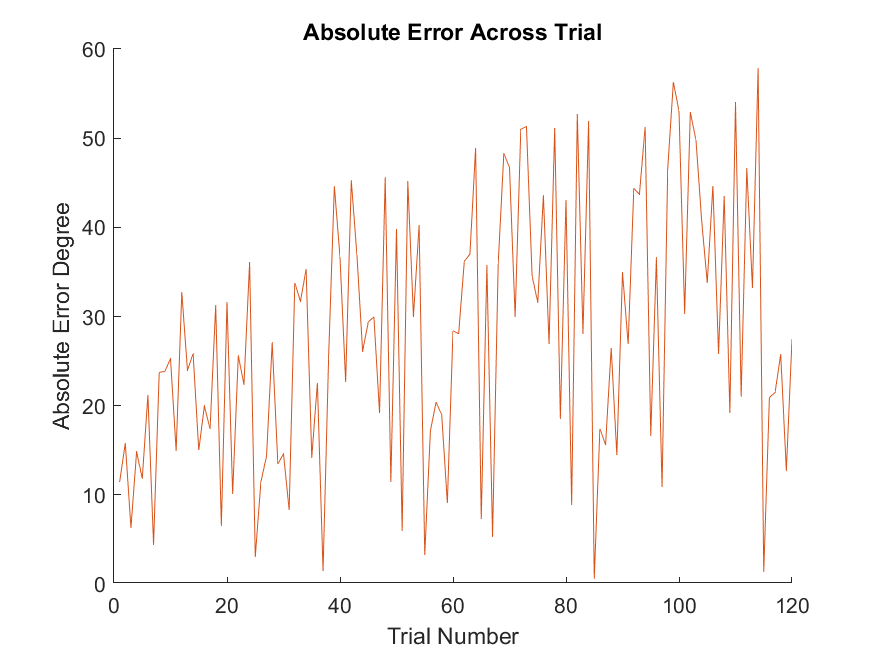
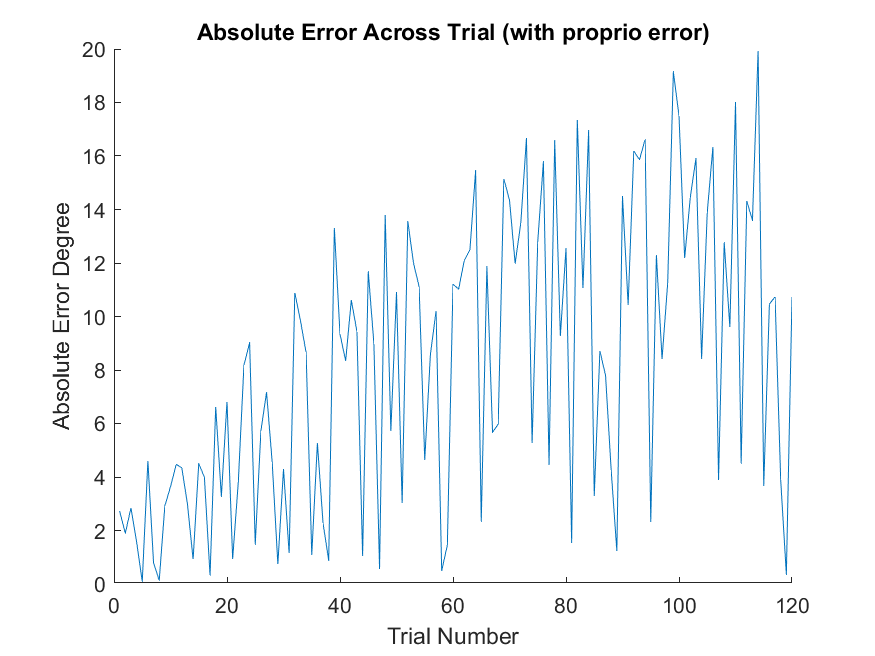
model results with visual error

diff --git a/Model/SensoryRecabModel_MirrorReversal_20220116.m b/Model/SensoryRecabModel_MirrorReversal_20220116.m
@@ -1,0 +1,260 @@
+sigma =6;
+eta =0.0001;
+sat_limit =18;
+seed_rng =48;
+
+sigma_noise = 2;
+txt = sprintf('Kernel Width=%f\nAsymptote=%f\nLearning rate=%f',sigma,sat_limit,eta);
+rng (seed_rng); % fix randomization so simulations are reproducible
+
+% initiate basis functions
+delta_c = 0.05;
+c = -60:delta_c:60;
+priop = -60:.5:60; 
+w = zeros(size(c));
+% proprio is the kernel of proprioception
+
+% Learning (note that Ntrials is more than needed to simulate Experiment 2,
+% which is 24 cycles (168 trials, i.e. 7 targets x 24 trials; and steady-state
+% analysis uses cycles 13:24)
+Ntrials = 120;
+blocksize = 30;
+blocknum = Ntrials/blocksize;
+
+[u_out,y_out,te] = deal(NaN(1,Ntrials));
+
+root_dir = pwd;
+% Load targets used in experiments
+cd('RawData\');
+vision = cell2mat(struct2cell(load("targetdata210trials.mat")));
+cd(root_dir);
+vision = vision(1:120);
+possibleivusalgoals = [-12;-9;-6;-3;0;3;6;9;12;15];
+w_sat_limit = sat_limit*delta_c/sigma/sqrt(2*pi);
+
+%basis functions
+B = NaN(length(c),length(priop));
+for i=1:length(c)
+    B(i,:) =  exp(-(priop-c(i)).^2/(2*sigma^2));
+end
+
+priop_map = NaN(Ntrials,length(priop));
+absoluteerror = [0 0];
+signederror = [0 0];
+visualerror = [0 0];
+taskerror = [0 0];
+for i=1:Ntrials
+    priop_map(i,:) = priop + sigmoid_saturation(w,w_sat_limit)*B;
+    % current map
+    
+    [~,i_t] = min((priop-vision(i)).^2);
+    %supposedly output
+    
+    priopout(i) = priop_map(i,i_t) + sigma_noise*randn;
+    %add randomness
+    
+    % apply perturbation
+    onlinecursor(i) = - priopout(i); % mirroring
+    [~,i_thokin] = min((priop-onlinecursor(i)).^2);
+    prioprime(i) = priop_map(i,i_thokin) + sigma_noise*randn;
+    [~,i_selected] = min(abs(priop-vision(i)));
+    
+    %priop and visual error
+    prioperror(i) = -(prioprime(i) - priopout(i));
+    visualerror(i) = -(onlinecursor(i)-vision(i));
+    taskerror(i) = -(priopout(i)-vision(i));
+    % Absolute and signed Error
+    absoluteerror(i) = abs(priopout(i) - vision(i));
+    signederror(i) = priopout(i) - vision(i);
+    
+    % learning update
+    w = w + eta*prioperror(i)*B(:,i_selected)';
+    %w = w + eta*visualerror(i)*B(:,i_selected)';
+    %w = w + eta*taskerror(i)*B(:,i_selected)';
+end
+
+lins = lines;
+figure; 
+hold on;
+mycolor = colormap("jet");
+xlim_right = 60;
+ylim_up = 60;
+plot(linspace(-80,80,161),linspace(-80,80,161),'--','color','black');
+for i = 1:Ntrials
+    plot(linspace(-60,60,241),priop_map(i,:),'color',mycolor(round(i*(length(mycolor)/Ntrials)),:));
+end
+xlim([-xlim_right,xlim_right]);
+ylim([-ylim_up,ylim_up]);
+%title('Proprio-Visual Sensory Map (visual error)');
+title('Proprio-Visual Sensory Map (proprio error)');
+text(15-xlim_right,ylim_up-15,txt);
+caxis([0,Ntrials]);
+c=colorbar;
+c.Label.String = 'Trial Number';
+xlabel('Proprioceptive Cue');
+ylabel('Visual Cue');
+
+cd('Results\');
+saveas(gcf,'MirrorReversalModelSensoryMapChange_LauFoo_20220116_1.png');
+%saveas(gcf,'MirrorReversalModelSensoryMapChange_LauFoo_20220116_2.png');
+cd(root_dir);
+
+reachbyblock = zeros(blocknum,blocksize);
+for i = 1:blocknum
+    for j = 1:blocksize
+        reachbyblock(i,j) = priopout((i-1)*blocksize+j);
+    end
+end
+
+figure; 
+hold on;
+grid on;
+caxis([1,blocknum]);
+mycolor2 = colormap('autumn');
+c3=colorbar('XTick',1:1:4,'XTickLabel',{'1','2','3','4'});
+c3.Label.String = 'Block Number';
+for i = 1:blocknum
+    RGB = mycolor2(round((i/blocknum)*length(mycolor2)),:);
+    plot(reachbyblock(i,:),'color',RGB,'LineWidth',1.5);
+end
+
+xlabel('Trial # (Within Block)');
+ylabel('Reach Direction');
+%title('Reach Direction By Block (with Visual Error)');
+title('Reach Direction By Block (with proprio error)');
+
+cd('Results\');
+saveas(gcf,'MirrorReversalModelReacByBlock_LauFoo_20220116_1.png');
+%saveas(gcf,'MirrorReversalModelReacByBlock_LauFoo_20220116_2.png');
+cd(root_dir);
+
+figure;
+hold on;
+xlabel('Trial Number');
+ylabel('Degree');
+ylim_up = 30;
+ylim([-ylim_up,ylim_up]);
+plot(priopout,'Color','r');
+plot(vision,'Color','b');
+text(10,ylim_up-5,txt);
+title('Reaching movement across trial (with proprio error)');
+%title('Reaching movement across trial (with visual error)');
+legend('Hand angle','Target angle');
+
+cd('Results\');
+saveas(gcf,'MirrorReversalModelHandVersusTarget_LauFoo_20220116_1.png');
+%saveas(gcf,'MirrorReversalModelHandVersusTarget_LauFoo_20220116_2.png');
+cd(root_dir);
+
+figure; 
+hold on;
+plot(signederror);
+xlabel('Trial Number');
+ylabel('Error Degree (Clockwise is Positive)');
+title('Signed Error Across Trial (with proprio error)');
+%title('Signed Error Across Trial (with visual error)');
+
+cd('Results\');
+saveas(gcf,'MirrorReversalModelSignedError_LauFoo_20220116_1.png');
+%saveas(gcf,'MirrorReversalModelSignedError_LauFoo_20220116_2.png');
+cd(root_dir);
+
+figure; 
+hold on;
+plot(absoluteerror);
+xlabel('Trial Number');
+ylabel('Absolute Error Degree');
+title('Absolute Error Across Trial (with proprio error)');
+%title('Absolute Error Across Trial (with visual error)');
+
+cd('Results\');
+saveas(gcf,'MirrorReversalModelAbsoluteError_LauFoo_20220116_1.png');
+%saveas(gcf,'MirrorReversalModelAbsoluteError_LauFoo_20220116_2.png');
+cd(root_dir);
+
+reachbytarget = zeros(9,1);
+targetidx = zeros(Ntrials,1);
+blocksize = 30;
+blocknum = length(onlinecursor)/blocksize;
+
+for i = 1:length(onlinecursor)
+    targetidx(i) = round(5+vision(i)/3);
+    reachbytarget(targetidx(i),end+1) = priopout(i);
+end
+
+reachbytarget_size = size(reachbytarget);
+reachbytarget_len = reachbytarget_size(1);
+reachbytarget_width = reachbytarget_size(2);
+avg_reach_bytarget = zeros(length(reachbytarget_len),blocknum);
+
+for i = 1:reachbytarget_len
+    for j = 1:blocknum
+        valid_num = 0;
+        reach_sum = 0;
+        for k = 1:blocksize
+            if(reachbytarget(i,(j-1)*30+k)~=0)
+                valid_num = valid_num + 1;
+                reach_sum  = reach_sum + reachbytarget(i,(j-1)*30+k);
+            end
+        end
+        avg_reach_bytarget(i,j) = reach_sum/valid_num;
+    end
+end
+
+figure; 
+hold on;
+xlabel('Target Direction');
+ylabel('Reach Direction');
+text(-10,25,txt);
+grid on;
+
+plot(linspace(-12,12,9),linspace(-12,12,9),'Color','black','LineWidth',1.5,'LineStyle','--');
+caxis([1,blocknum]);
+mycolor3 = colormap('hsv');
+c3=colorbar('XTick',1:1:4,'XTickLabel',{'1','2','3','4'});
+c3.Label.String = 'Block Number';
+
+up_slope = zeros(blocknum,1);
+up_offset = zeros(blocknum,1);
+
+for i=1:blocknum
+    RGB = mycolor3(round((i/blocknum)*length(mycolor)),:);
+    scatter(linspace(-12,12,9),avg_reach_bytarget(:,i),50,RGB,'filled','o');
+    p = polyfit(linspace(-12,12,9),avg_reach_bytarget(:,i),1);
+    up_slope(i) = p(1);
+    up_offset(i) = p(2);
+    y_fitted = polyval(p,linspace(-12,12,9));
+    plot(linspace(-12,12,9),y_fitted,'Color',RGB,'LineWidth',1.5);
+end
+%title('Reach Direction versus Target Direction (with visual error)');
+title('Reach Direction versus Target Direction (with proprio error)');
+
+cd('Results\');
+saveas(gcf,'MirrorReversalModelReachByTarget_LauFoo_20220116_1.png');
+%saveas(gcf,'MirrorReversalModelReachByTarget_LauFoo_20220116_2.png');
+cd(root_dir);
+
+figure; 
+hold on;
+grid on;
+subplot(1,2,1);
+bar(up_slope);
+title('Expansion (with visual error)');
+xlabel('Block Number');
+ylabel('Slope');
+
+subplot(1,2,2);
+bar(abs(up_offset));
+%title('Shift (with visual error)');
+title('Shift (with proprio error)');
+xlabel('Block Number');
+ylabel('Abs. of offset');
+
+cd('Results\');
+saveas(gcf,'MirrorReversalModelSlopeOffset_LauFoo_20220116_1.png');
+%saveas(gcf,'MirrorReversalModelSlopeOffset_LauFoo_20220116_2.png');
+cd(root_dir);
+
+function y = sigmoid_saturation(x,sat_limit)
+
+y = sat_limit*erf(sqrt(pi)/2*x/sat_limit); end
